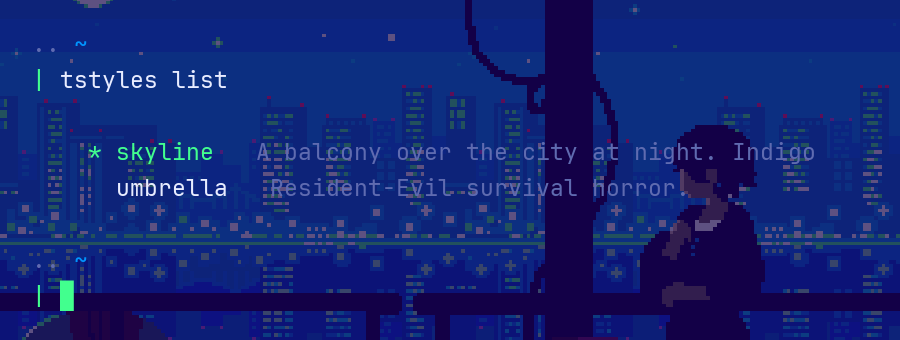
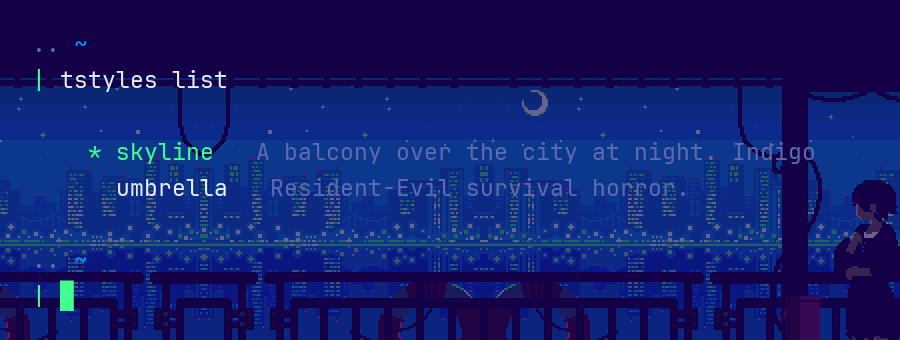
Backgrounds at their own size: skyline and neon-rain (#93)
* skyline at native size, flush with the bottom

Covering scaled everything 2.30x and the scene read magnified. Native size
does not enlarge it, but a 492x270 picture fills 47% of an ordinary
window, so the background is widened to 1052x270 first: the left of the
frame is pure cityscape and mirrors outward without a join. Two
reflections, taken from left of the pole so the girl is never in the
mirror source, and the moon painted out of both -- patched with a
moon-free slab of the same sky so the gradient and starfield carry
through. Three crescents is the one thing that would have given it away.

Widening sideways does NOT reduce the zoom, which is worth recording
because it looked like it should: covering is driven by height, 622 over
270, and the width never entered into it. I said otherwise first.

What removes the last visible edge is alignment, not more picture. The
top three rows are 100% #130047, which IS the scheme background, so the
margin above was never visible -- extending the sky there would have been
painting the same colour. The bottom row is 54% #005fdf, so that edge was
the one showing. Flush against the bottom puts it off-screen and leaves
the invisible edge facing the margin.

No zoom, full width, no join, and the composition reads the way the scene
is built: city along the bottom, sky above.

* neon-rain at its own size, at street level

660x880 is too NARROW rather than too short, which is the opposite of
[…]

diff --git a/scripts/make-preview.py b/scripts/make-preview.py
@@ -43,7 +43,13 @@ try:
         s = max(W / gif.width, H / gif.height)
     elif mode == 'fill':
         s = None
-    else:                                    # uniform, none -> contain
+    elif mode == 'none':
+        # NOT contain. 'none' means draw it at its own size -- the whole point
+        # of the styles that ask for it. Treating it as contain made the
+        # preview shrink a 660-wide image to 255 and show a fit no style asks
+        # for, which is the same class of lie as hardcoding the prompt was.
+        s = 1.0
+    else:                                    # uniform -> contain
         s = min(W / gif.width, H / gif.height)
     if s is None:
         placed = gif.resize((W, H), Image.NEAREST)
@@ -54,7 +60,10 @@ try:
             l, t = (n.width - W) // 2, (n.height - H) // 2
             placed = n.crop((l, t, l + W, t + H))
         else:
-            placed.paste(n, ((W - n.width) // 2, (H - n.height) // 2))
+            align = str(theme.get('backgroundImageAlignment', 'center')).lower()
+            top = H - n.height if 'bottom' in align else (0 if 'top' in align
+                                                          else (H - n.height) // 2)
+            placed.paste(n, ((W - n.width) // 2, top))
     im = Image.blend(im, placed, float(theme.get('backgroundImageOpacity', 0.3)))
 except Exception as e:
     print(f'no background ({e}); rendering on the solid scheme colour')

diff --git a/CHANGELOG.md b/CHANGELOG.md
@@ -16,6 +16,21 @@ and this project adheres to [Semantic Versioning](https://semver.org/spec/v2.0.0
   It is the **only style in the set that turns `experimental.retroTerminalEffect` on**. Windows Terminal's scanline-and-glow filter is a poor fit for a photograph and exactly right for a tube; it is ignored everywhere else, which costs nothing.
 
   Its background is a 756-byte solid `#020d02` rather than an animation -- a colour, not a picture -- like `sober`'s and `gitbash`'s. The file still has to exist, because it is what wipes the previously-active style's wallpaper. That made it the third `.png` in a set of `.gif`s, which both the docs image map and `scripts/make-preview.py` had to be told about.
+### Changed
+
+- **skyline sits at native size, flush with the bottom of the window.** Covering scaled everything 2.30x and the scene read magnified. Native size does not enlarge it, but a 492x270 picture fills 47% of an ordinary window, so the background is widened to 1052x270 first: the left of the frame is pure cityscape and mirrors outward without a join. Two reflections, taken from left of the pole so the girl is never in the mirror source, and the moon painted out of both -- patched with a moon-free slab of the same sky, so the gradient and the starfield carry through. Three crescents is the one thing that would have given it away.
+
+  Widening sideways does **not** reduce the zoom, which is worth recording because it looked like it should: covering is driven by height, 622 over 270, and the width never entered into it.
+
+  What removes the last visible edge is alignment, not more picture. The image's top three rows are 100% `#130047`, which is the scheme background, so the margin above it was never visible; its bottom row is 54% `#005fdf`, so that one was. Sitting it flush against the bottom of the window puts the visible edge off-screen and leaves the invisible one facing the margin. No zoom, full width, no join, and the composition reads the way the scene is built -- city along the bottom, sky above.
+
+  114 frames rather than 228 at double the duration, so the loop is still 22.8 seconds and the file is 2466 KB for an image with 2.1x the pixels.
+
+- **neon-rain sits at its own size too, at street level.** It is 660x880 -- too NARROW rather than too short, which is the opposite of skyline's problem. Covering scaled it 1.57x to reach across an ordinary window and then discarded 762px of height, so what you saw was 45% of the picture, enlarged. Native size does not enlarge it, and sitting it at the bottom frames the canopy, the neon sign and the truck rather than a magnified slice of tower.
+
+  The side margins do show here, and that is the trade. skyline's top rows are exactly its scheme background, so its margin cannot be seen; neon-rain's edges are `#173e65` against a `#0c1828` background. Dark blue on dark blue, but not invisible.
+
+- **`scripts/make-preview.py` rendered a fit no style asks for.** It computed a contain-scale for `none` as well as for `uniform`, so a 660-wide image previewed at 255 wide -- and it ignored `backgroundImageAlignment` entirely, centring a style that asks to sit at the bottom. Both are fixed, and the previews for every style that asks for `none` are regenerated. Second defect of this shape in that file today: it also hardcoded one style's prompt while claiming to read each style's own.
 
 ## [0.8.44] - 2026-09-21
 
